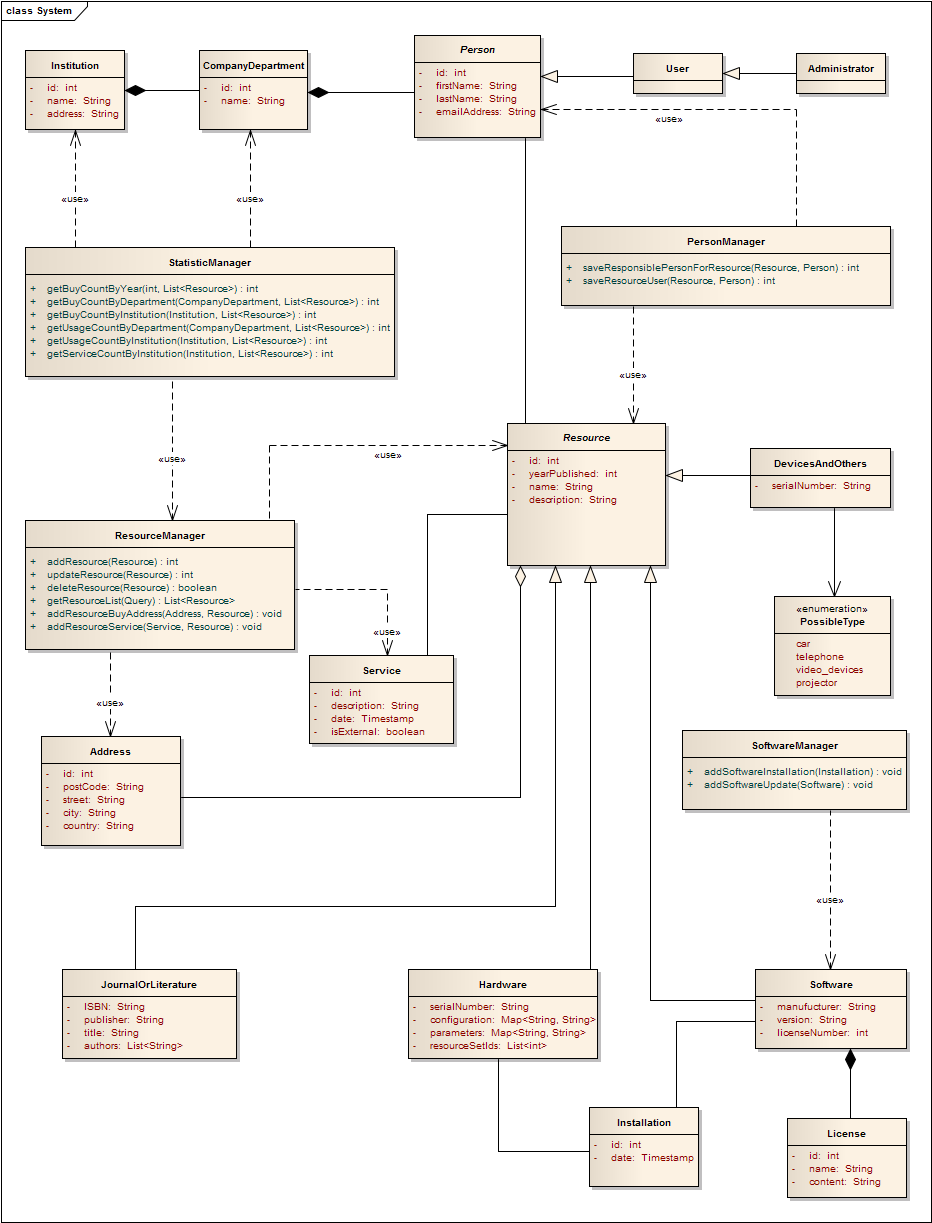
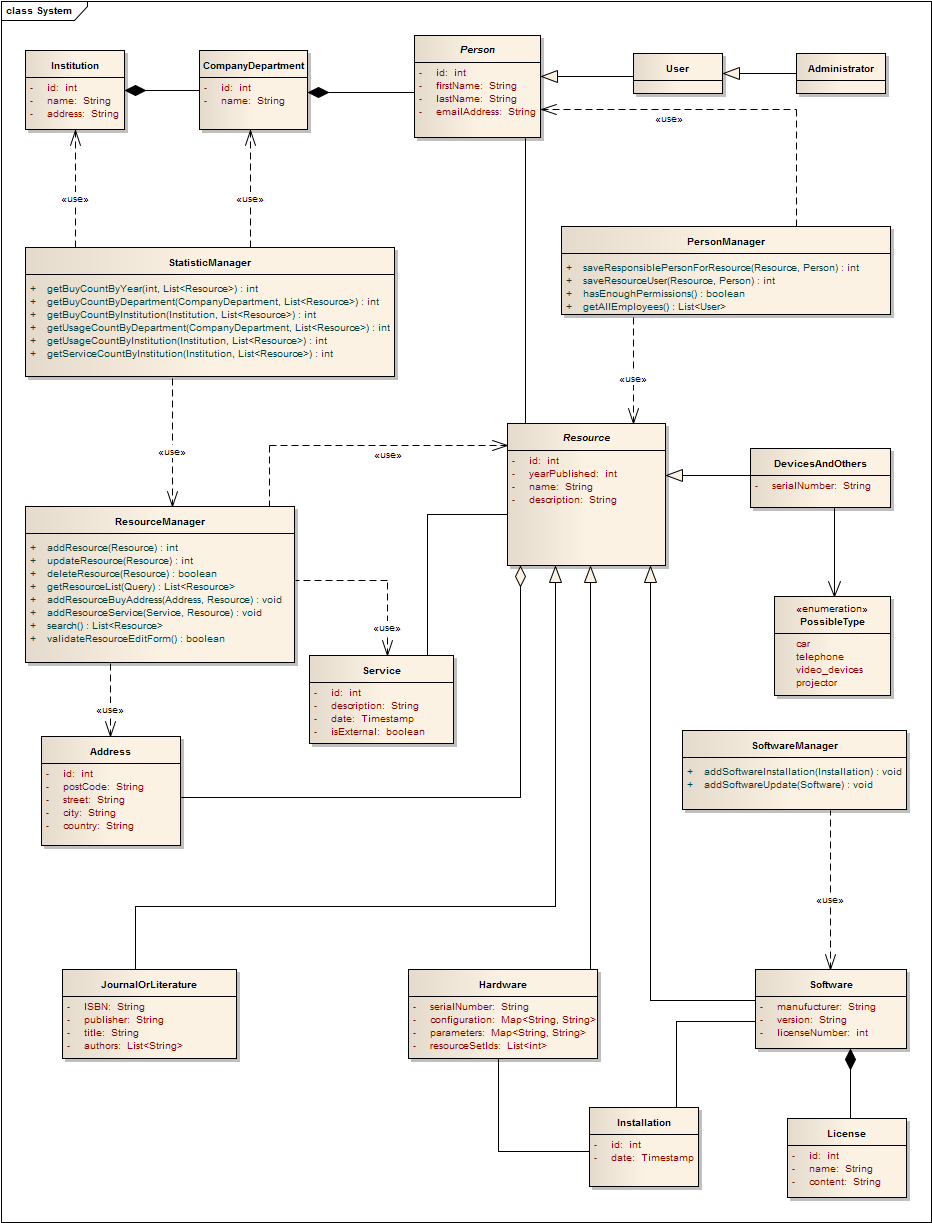
Added sequence diagrams.

Changed region(s): [[0.0311, 0.4039, 0.3423, 0.5904], [0.5912, 0.2175, 0.9646, 0.2796], [0.4045, 0.4971, 0.4356, 0.5282]]

diff --git a/section6.tex b/section6.tex
@@ -1,4 +1,5 @@
 \section{Analityczny model projektowy dziedziny}
+\subsection{Diagram klas}
 \begin{figure}[h!]
 	\centering
 	\includegraphics[scale=0.4]{img/class-diagram2}
@@ -47,3 +48,17 @@ Opis klas przedstawionych na diagramie~\ref{fig:labelClassDiagram}:
 			
 	\item \textbf{StatisticManager} - klasa korzystająca z obiektów \textit{Institution}, \textit{CompanyDepartment} oraz wykorzystująca zarządce zasobów - \textit{ResouceManager}. Umożliwia na uzyskanie statystyk zakupu zasobów w poszczególnych latach, z uwzględnieniem działu oraz instytucji. Ponadto umożliwia uzyskanie informacji o użyciu zasobu w dziale firmy, instytucji oraz liczbie wykonanych usług serwisowych w instytucji.
 \end{description}
+
+\newpage
+\subsection{Diagramy sekwencji}
+Przykładowe diagramy sekwencji wykorzystujące obiekty pokazane na diagramie klas.
+\begin{figure}[h!]
+	\centering
+	\includegraphics[scale=0.4]{img/seq-pu-a}
+	\caption{Edycja danych zasobu.\label{fig:seq-pu-a}}
+\end{figure}
+\begin{figure}[h!]
+	\centering
+	\includegraphics[scale=0.4]{img/seq-pu-b}
+	\caption{Przypisanie osoby odpowiedzialnej za zasób.\label{fig:seq-pu-b}}
+\end{figure}
